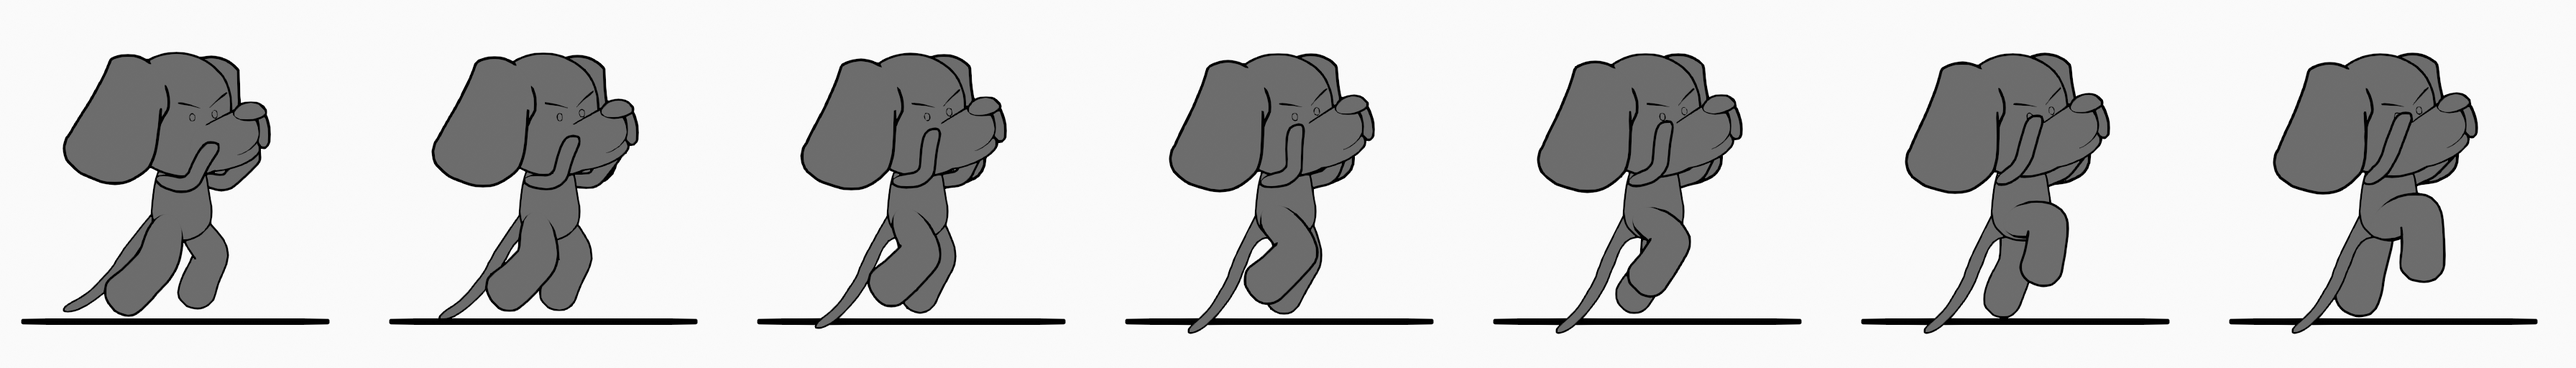
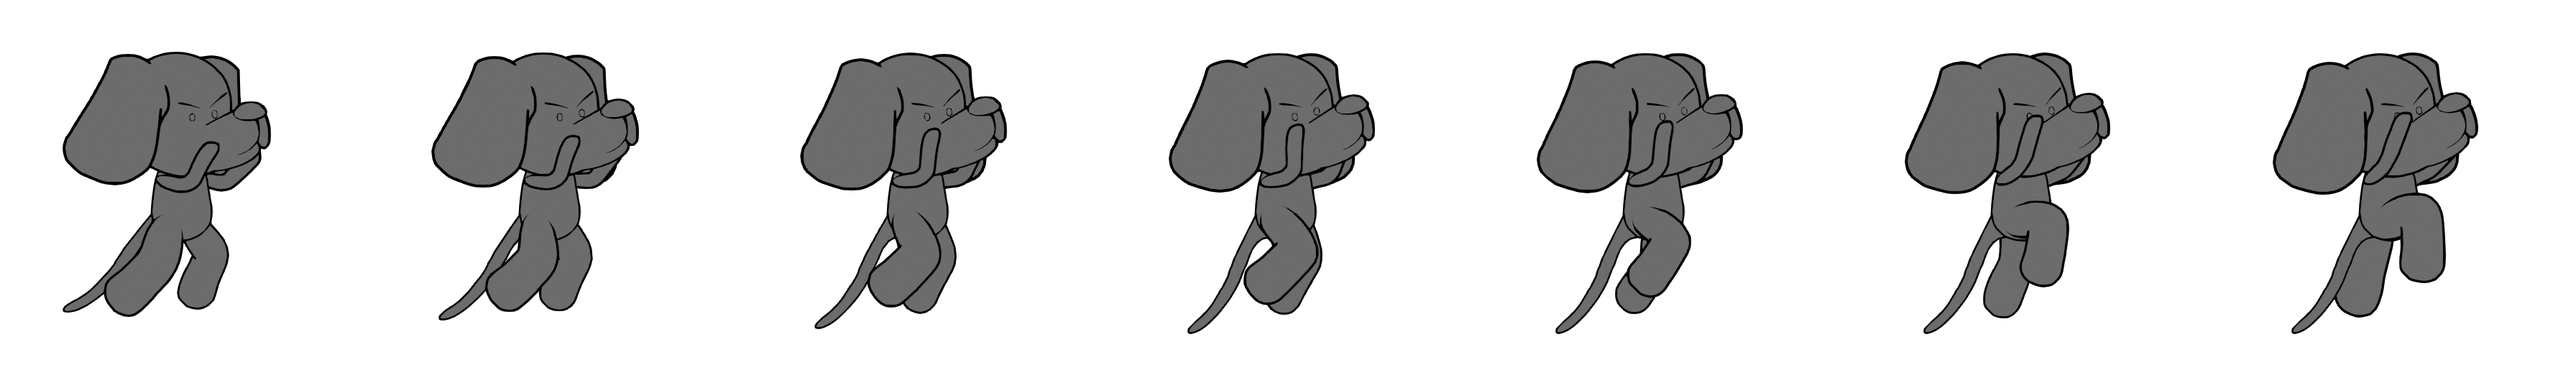
Did more work. Cleaned up more movement.

diff --git a/Element/Character/Player.cs b/Element/Character/Player.cs
@@ -28,16 +28,17 @@ namespace Potato.Element.Character
         private bool tryingToMoveHorizontally;
         private float horizontalForce;
         private float verticalForce;
-        private float groundStick;
         private float jumpTimer;
         private float spriteDrawRotation;
         private const float jumpTimerThreshold = 0.1f;
-        private const float groundMultipler = 250f;
+        private const float groundStickMultiplier = 250f;
+        private const float airStickMultiplier = 20f;
         private Vector2 jumpOrientation;
         private Vector2 spriteDrawScale;
         private Vector2 spriteDrawOffset;
         private AnimatedSprite runningSprite;
         private AnimatedSprite idleSprite;
+        private AnimatedSprite jumpSprite;
         private AnimatedSprite currentSprite;
         public float HorizontalForce { get => horizontalForce; set => horizontalForce = value; }
         public float VerticalForce { get => verticalForce; set => verticalForce = value; }
@@ -81,15 +82,14 @@ namespace Potato.Element.Character
             facingRight = true;
             tryingToMoveHorizontally = false;
 
-            groundStick = 0;
             horizontalForce = 3000;
             verticalForce = 14000f;
             physicsChanger.Mass = 1f;
-            physicsChanger.MaxSpeed = 2000f;
+            physicsChanger.MaxSpeed = 1000f;
             physicsChanger.Friction = 1000;
             physicsChanger.Gravity = new Vector2(x: 0, y: 3000);
-            physicsChanger.Bounce = .75f;
-            physicsChanger.Stick = groundStick;
+            physicsChanger.Bounce = .50f;
+            physicsChanger.Stick = groundStickMultiplier;
 
             {
                 SpriteSheet spriteSheet;
@@ -97,11 +97,13 @@ namespace Potato.Element.Character
                 runningSprite = new AnimatedSprite(spriteSheet);
                 spriteSheet = Potato.Game.Content.Load<SpriteSheet>("protagonist_idle.sf", new JsonContentLoader());
                 idleSprite = new AnimatedSprite(spriteSheet);
+                spriteSheet = Potato.Game.Content.Load<SpriteSheet>("protagonist_jump.sf", new JsonContentLoader());
+                jumpSprite = new AnimatedSprite(spriteSheet);
                 idleSprite.Play("idle");
                 currentSprite = idleSprite;
             }
 
-            spriteDrawScale = new Vector2(x: 0.175f, y: 0.175f);
+            spriteDrawScale = new Vector2(x: 0.265f, y: 0.265f);
             spriteDrawOffset = collisionMask.Bounds.Size.ToVector2() / 2;
             spriteDrawRotation = 0.0f;
         }
@@ -123,8 +125,8 @@ namespace Potato.Element.Character
                     .ToPoint()
                     .ToVector2();
             //spriteBatch.Draw(
-            //    texture: collisionMask, 
-            //    position: drawPosition, 
+            //    texture: collisionMask,
+            //    position: drawPosition,
             //    color: Color.White);
             spriteBatch.Draw(
                 sprite: currentSprite, 
@@ -213,7 +215,7 @@ namespace Potato.Element.Character
                         }
                         else if (physicsChanger.Grounded && !jumpLock)
                         {
-                            physicsChanger.Stick = 0;
+                            physicsChanger.Stick = airStickMultiplier;
                             jumpTimer = jumpTimerThreshold;
                             jumpOrientation = physicsChanger.Orientation;
                             jumpLock = true;
@@ -225,7 +227,7 @@ namespace Potato.Element.Character
                         if (physicsChanger.Grounded)
                         {
                             jumpLock = false;
-                            physicsChanger.Stick = Math.Abs(movementValue) * groundMultipler;
+                            physicsChanger.Stick = Math.Abs(movementValue) * groundStickMultiplier;
                         }
                     }
                 }
@@ -240,27 +242,43 @@ namespace Potato.Element.Character
 
             // Update the media.
             {
-                currentSprite.Effect = (facingRight) ? SpriteEffects .None : SpriteEffects.FlipHorizontally;
+                // Set the direction the player is facing.
+                currentSprite.Effect = (facingRight) ? SpriteEffects.None : SpriteEffects.FlipHorizontally;
 
+                // Set the rotation of the player based on orientation.
+                // Might be worth adding a PID to make the rotations more smooth.
                 spriteDrawRotation = (float)Math.Atan2(y: physicsChanger.Orientation.Y, x: physicsChanger.Orientation.X) + MathHelper.PiOver2;
 
-                if (tryingToMoveHorizontally)
+                // Set the animations depending on the following conditions.
+                if (!physicsChanger.Grounded)
                 {
-                    if (currentSprite != runningSprite)
+                    if (currentSprite != jumpSprite)
                     {
-                        runningSprite.Play("running");
-                        currentSprite = runningSprite;
+                        jumpSprite.Play("jump");
+                        currentSprite = jumpSprite;
                     }
                 }
-                else 
+                else
                 {
-                    if (currentSprite != idleSprite)
+                    if (tryingToMoveHorizontally)
                     {
-                        idleSprite.Play("idle");
-                        currentSprite = idleSprite;
+                        if (currentSprite != runningSprite)
+                        {
+                            runningSprite.Play("running");
+                            currentSprite = runningSprite;
+                        }
                     }
-                }
+                    else
+                    {
+                        if (currentSprite != idleSprite)
+                        {
+                            idleSprite.Play("idle");
+                            currentSprite = idleSprite;
+                        }
+                    }
+            }
 
+                // Update the sprite for the current frame.
                 currentSprite.Update(gameTime: gameTime);
             }
 

diff --git a/PhysicsChanger.cs b/PhysicsChanger.cs
@@ -10,8 +10,8 @@ namespace Potato
     internal class PhysicsChanger : IPhysical, IUpdateable
     {
         private const float orientationGroundedThreshold = 0.25f;
-        private const float groundedTimerThreshold = 0.1f;
-        private const float touchedTimerThreshold = 0.1f;
+        private const float groundedTimerThreshold = 0.2f;
+        private const float touchedTimerThreshold = 0.2f;
         private const float squashBounceThreshold = 100;
         private float mass;
         private float maxSpeed;
@@ -187,15 +187,15 @@ namespace Potato
                 velocity = speed * direction;
             }
 
-            // Apply touched corrections to velocity. 
-            if (touched)
-            {
-                Vector2 orthogonal = touchedOrientation.GetPerpendicular();
-                float touchedOrientationScalar = Vector2.Dot(touchedOrientation, velocity);
-                float orthognalScalar = Vector2.Dot(orthogonal, velocity);
-                velocity = Math.Max(0, touchedOrientationScalar) * touchedOrientation + orthognalScalar * orthogonal;
-            }
-            
+            //// Apply touched corrections to velocity. 
+            //if (touched)
+            //{
+            //    Vector2 orthogonal = touchedOrientation.GetPerpendicular();
+            //    float touchedOrientationScalar = Vector2.Dot(touchedOrientation, velocity);
+            //    float orthognalScalar = Vector2.Dot(orthogonal, velocity);
+            //    velocity = Math.Max(0, touchedOrientationScalar) * touchedOrientation + orthognalScalar * orthogonal;
+            //}
+
             // Determine the new position based on the current velocity.
             position += (velocity - stick * orientation) * elapsedTime;
 
